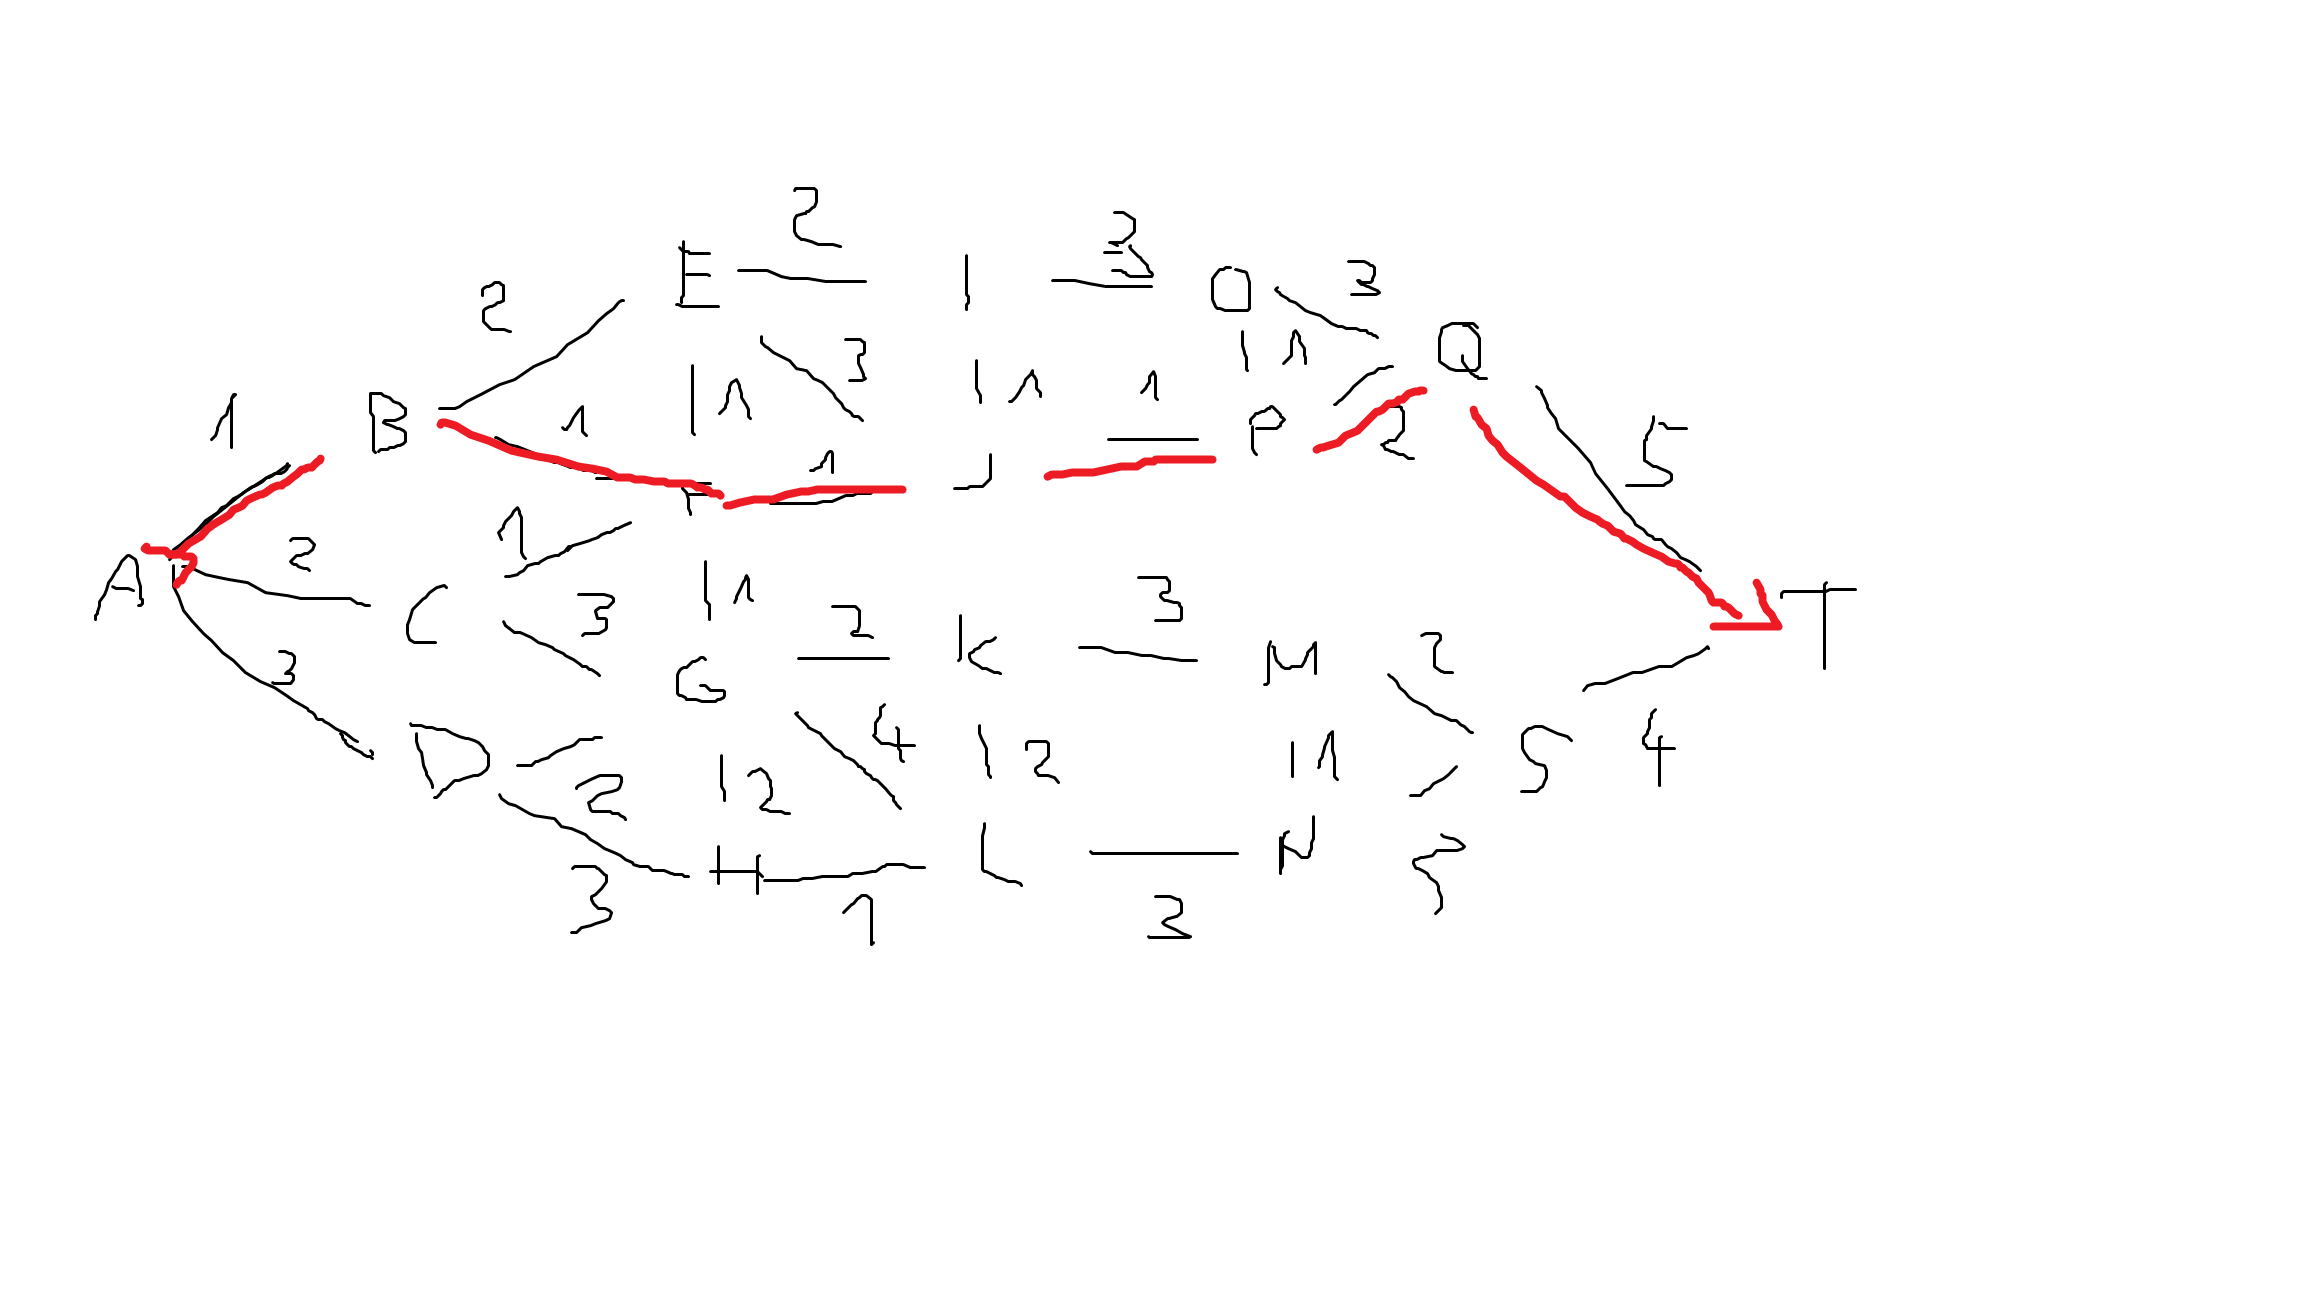
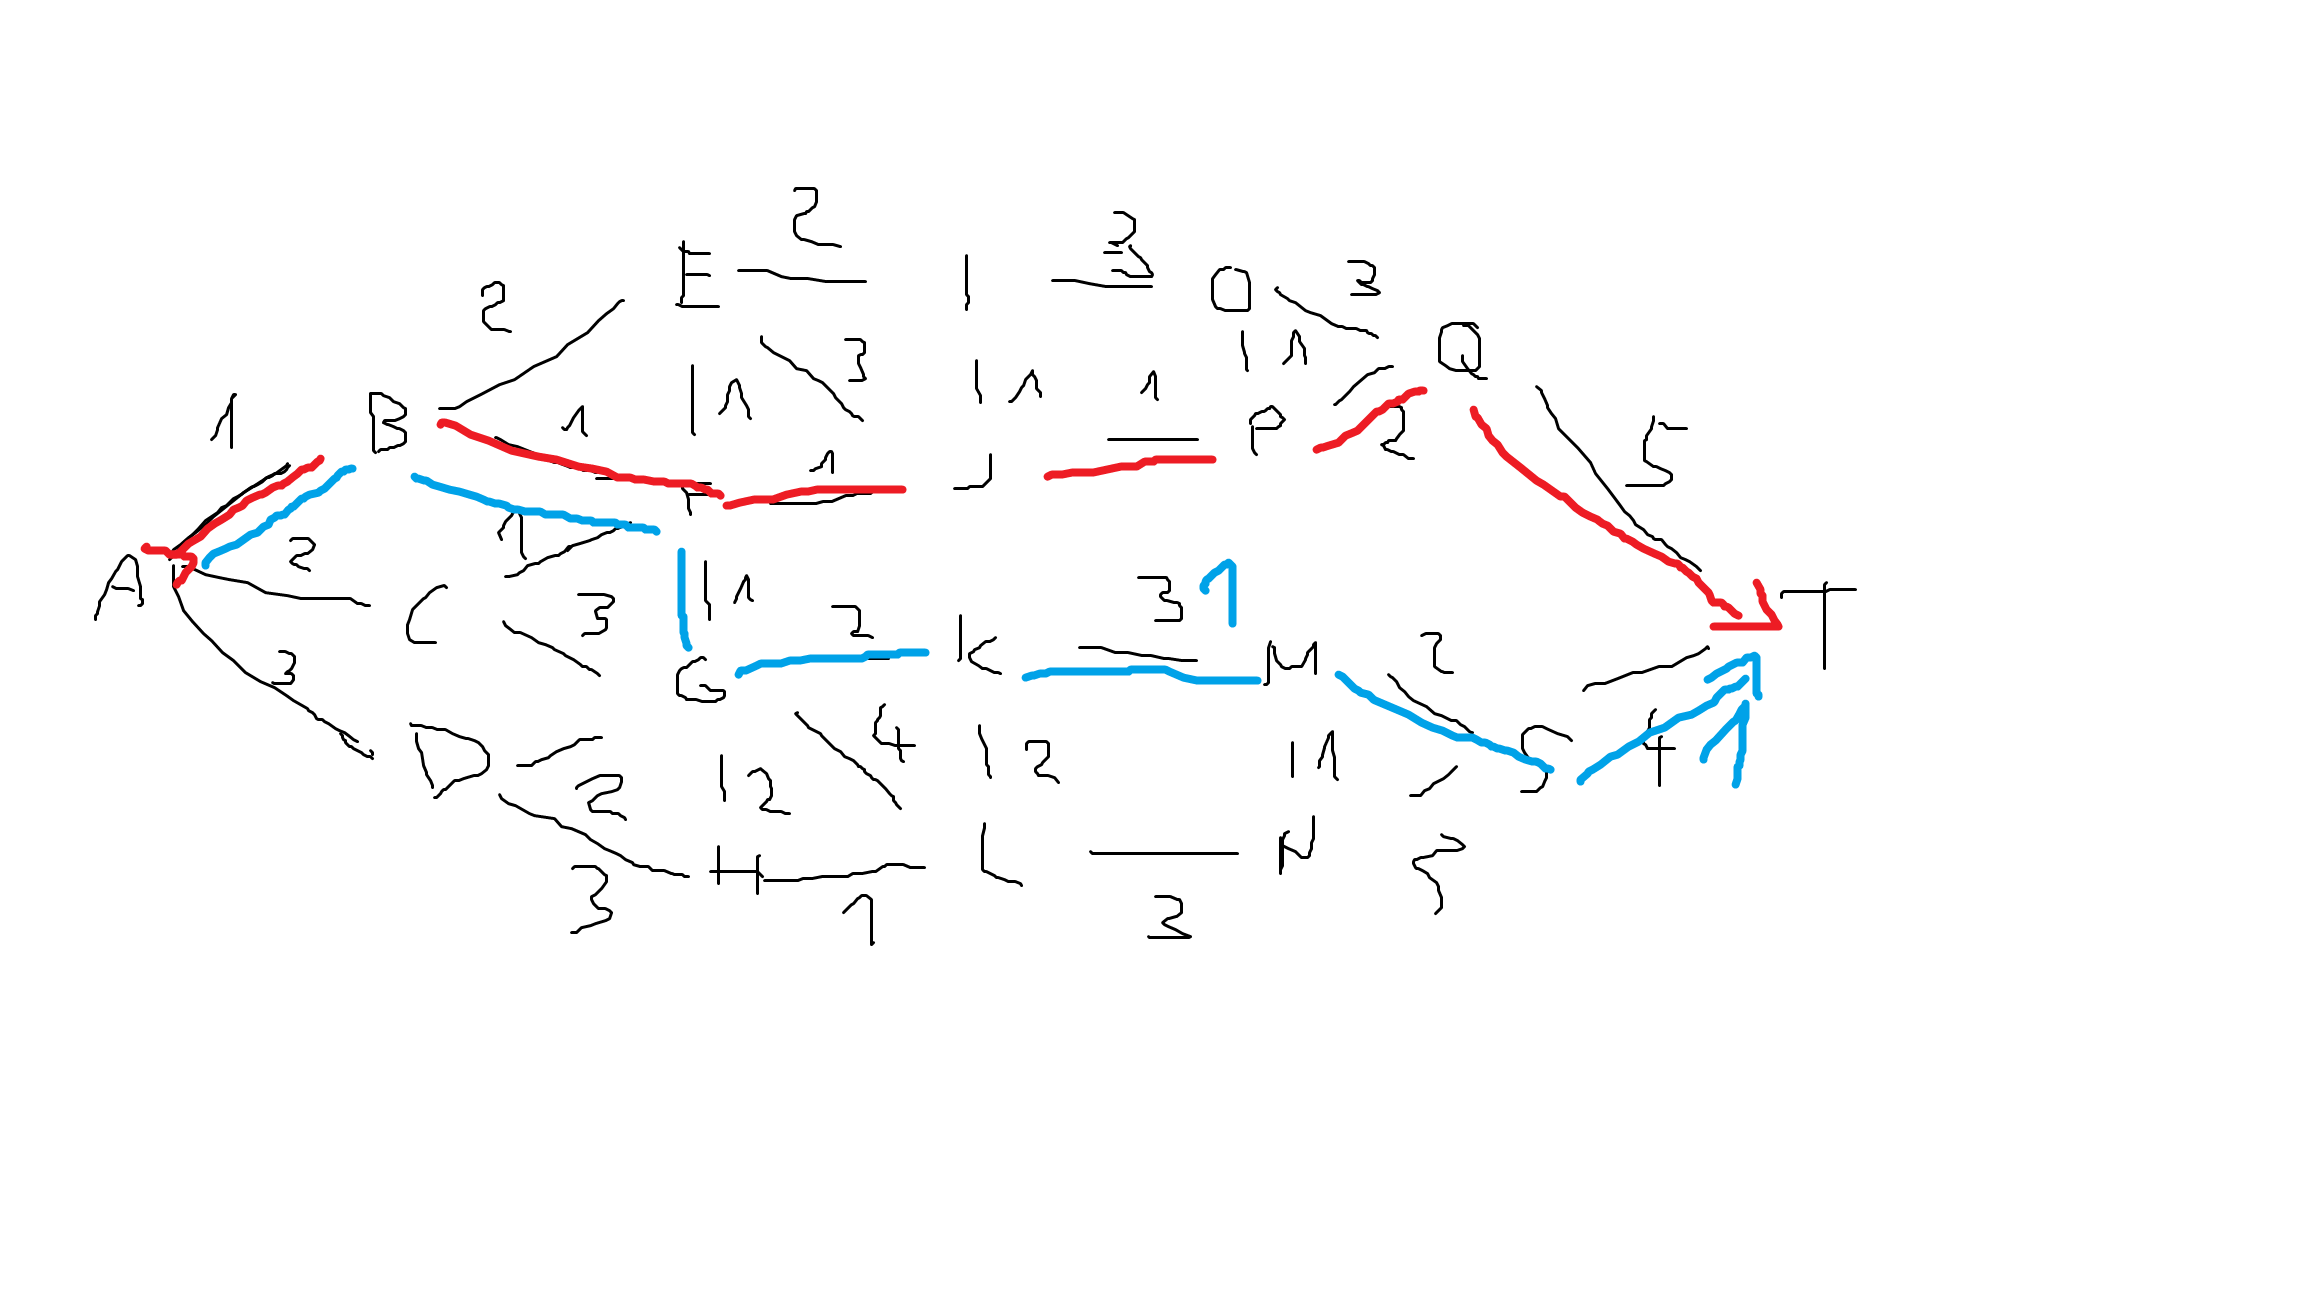
Other variant

diff --git a/Bonusy/Dijkstra search/dijkstra.py b/Bonusy/Dijkstra search/dijkstra.py
@@ -115,15 +115,15 @@ if __name__ == "__main__":
         'H': {'D': 3, 'G': 2, 'L': 1},
         'I': {'E': 2, 'J': 1, 'O': 3},
         'J': {'I': 1, 'P': 1, 'F': 1, 'E': 3},
-        'K': {'G': 2, 'M': 3, 'L': 2},
+        'K': {'G': 2, 'M': 1, 'L': 2},
         'L': {'K': 2, 'N': 3, 'H': 1, 'G': 4},
         'O': {'I': 3, 'P': 1, 'Q': 3},
         'P': {'J': 1, 'O': 1, 'Q': 2},
         'Q': {'O': 3, 'P': 2, 'T': 5},
-        'M': {'K': 3, 'S': 2, 'N': 1},
+        'M': {'K': 1, 'S': 2, 'N': 1},
         'N': {'L':3, 'M': 1, 'S': 2},
-        'S': {'M': 2, 'N': 2, 'T': 4},
-        'T': {'Q': 5, 'S': 4},
+        'S': {'M': 2, 'N': 2, 'T': 1},
+        'T': {'Q': 5, 'S': 1},
     }
 
     path, distance = dijkstra(graph_2, 'A', 'T')
